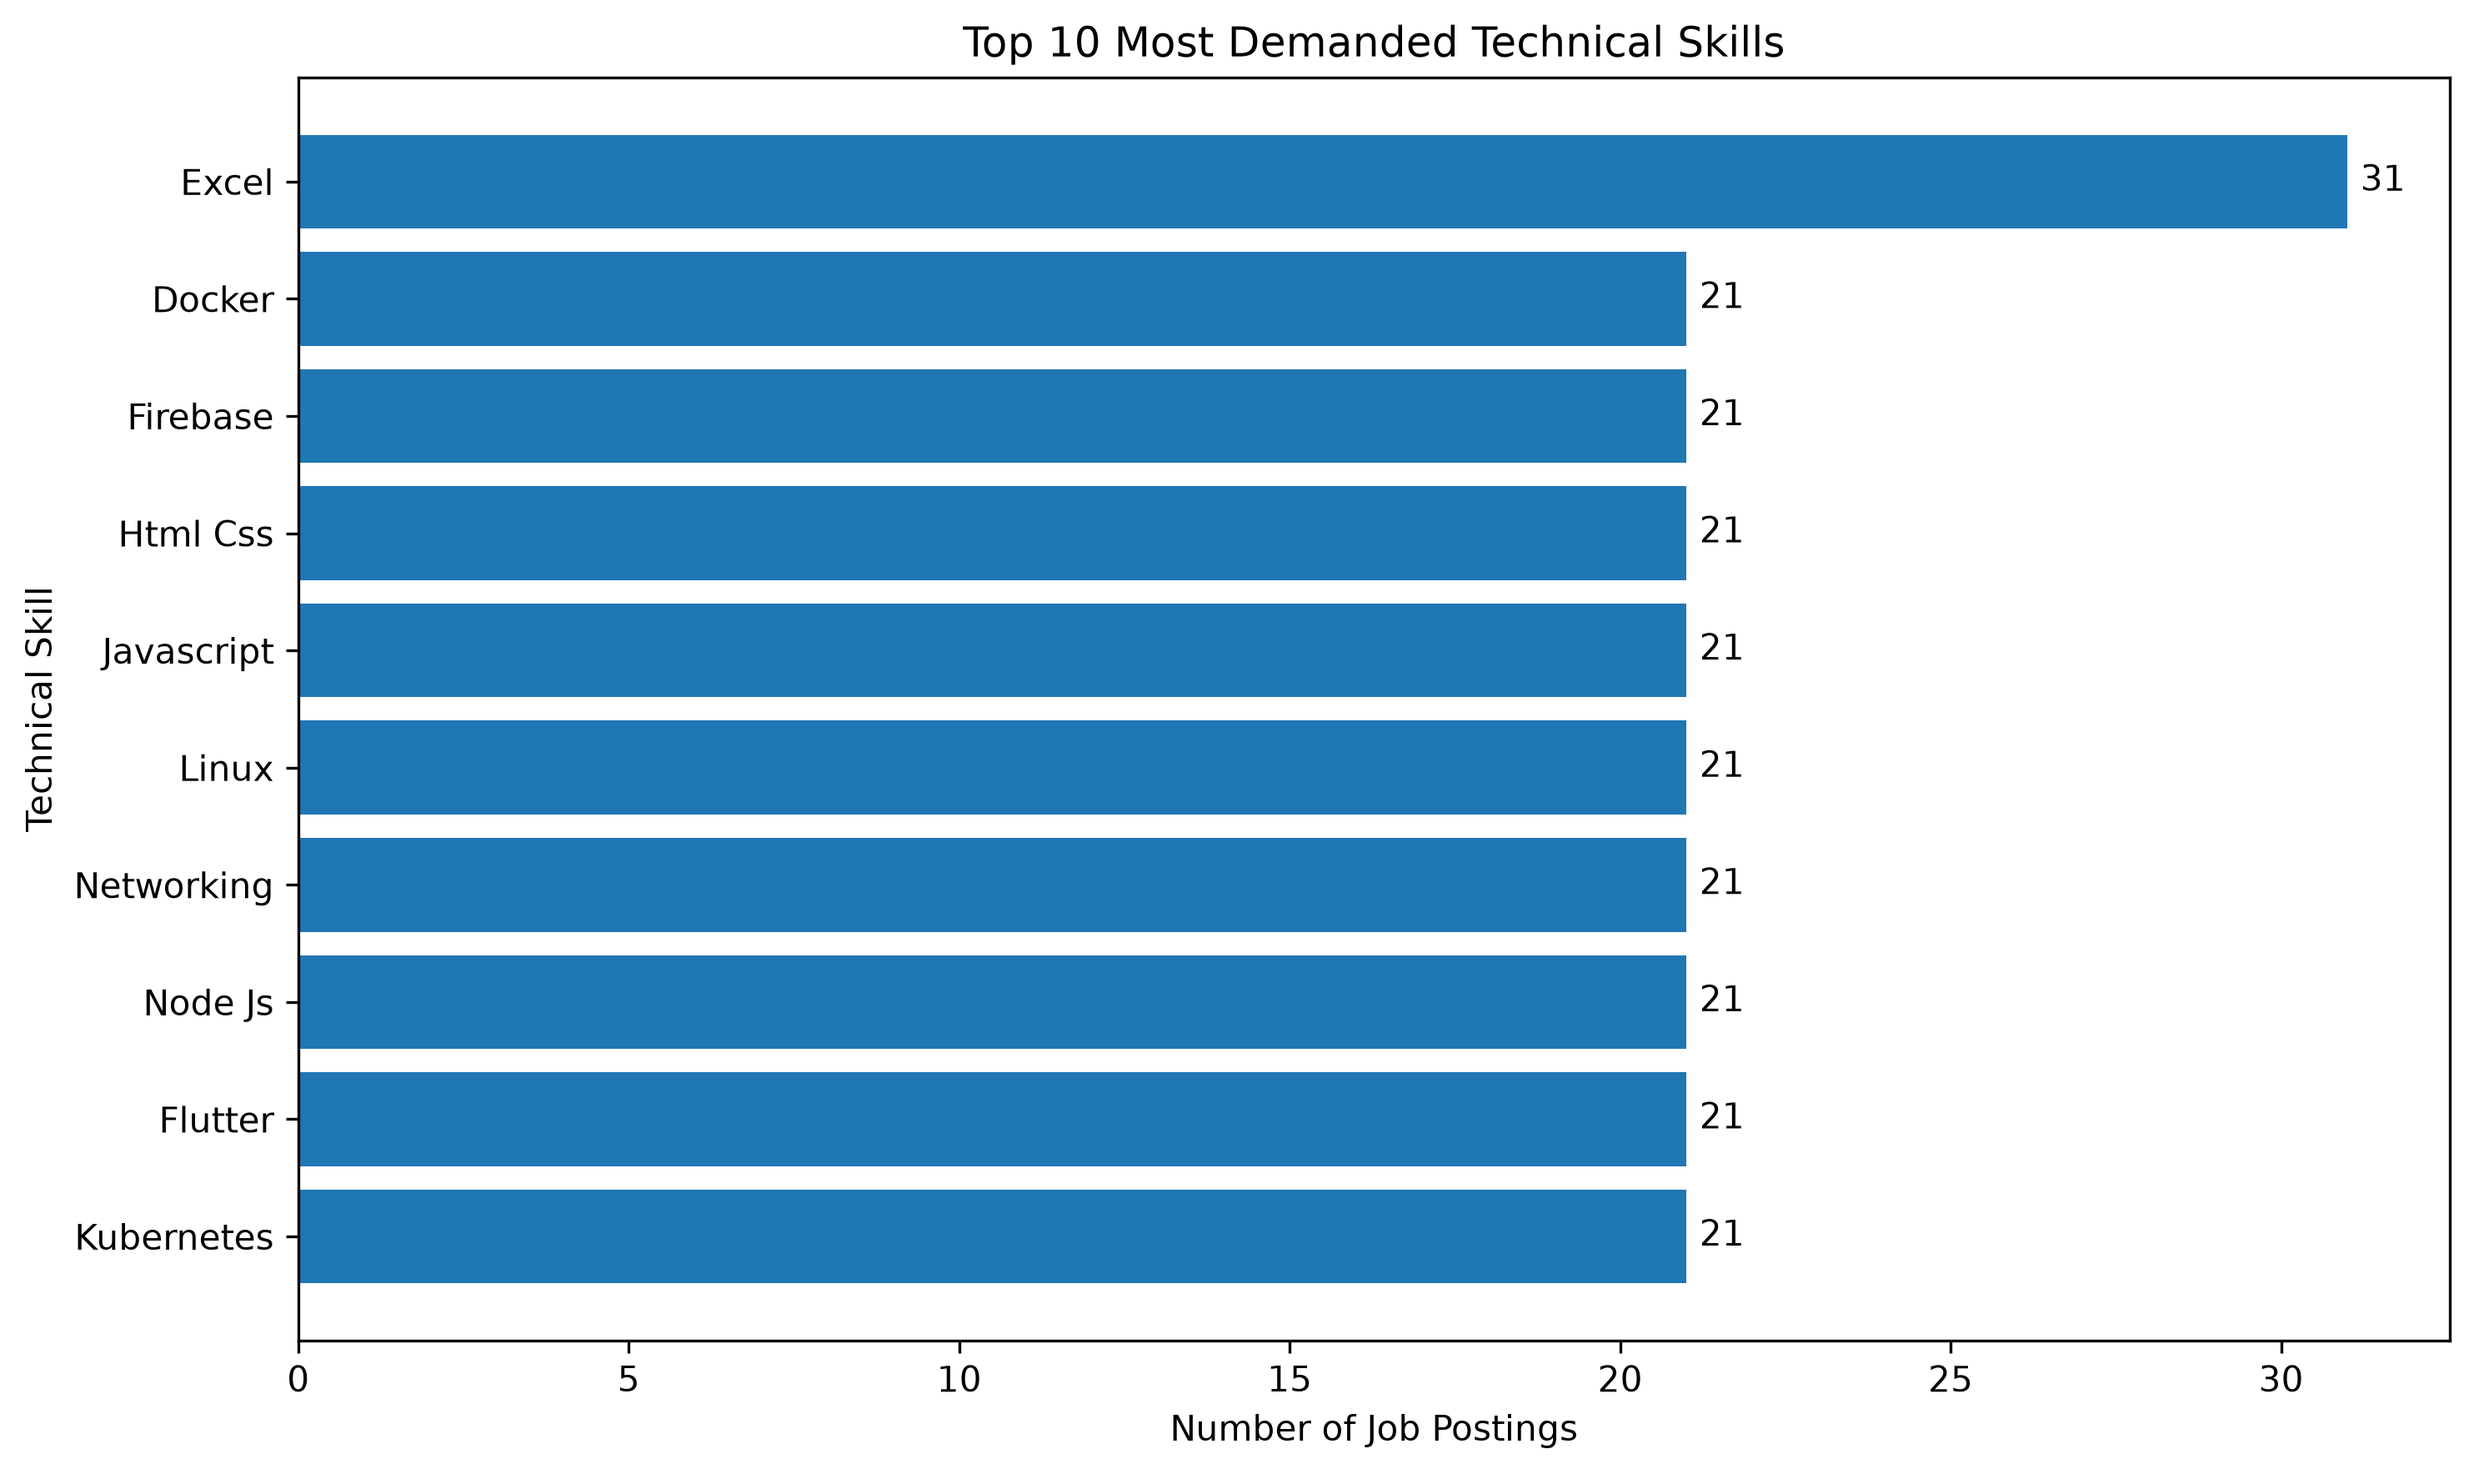
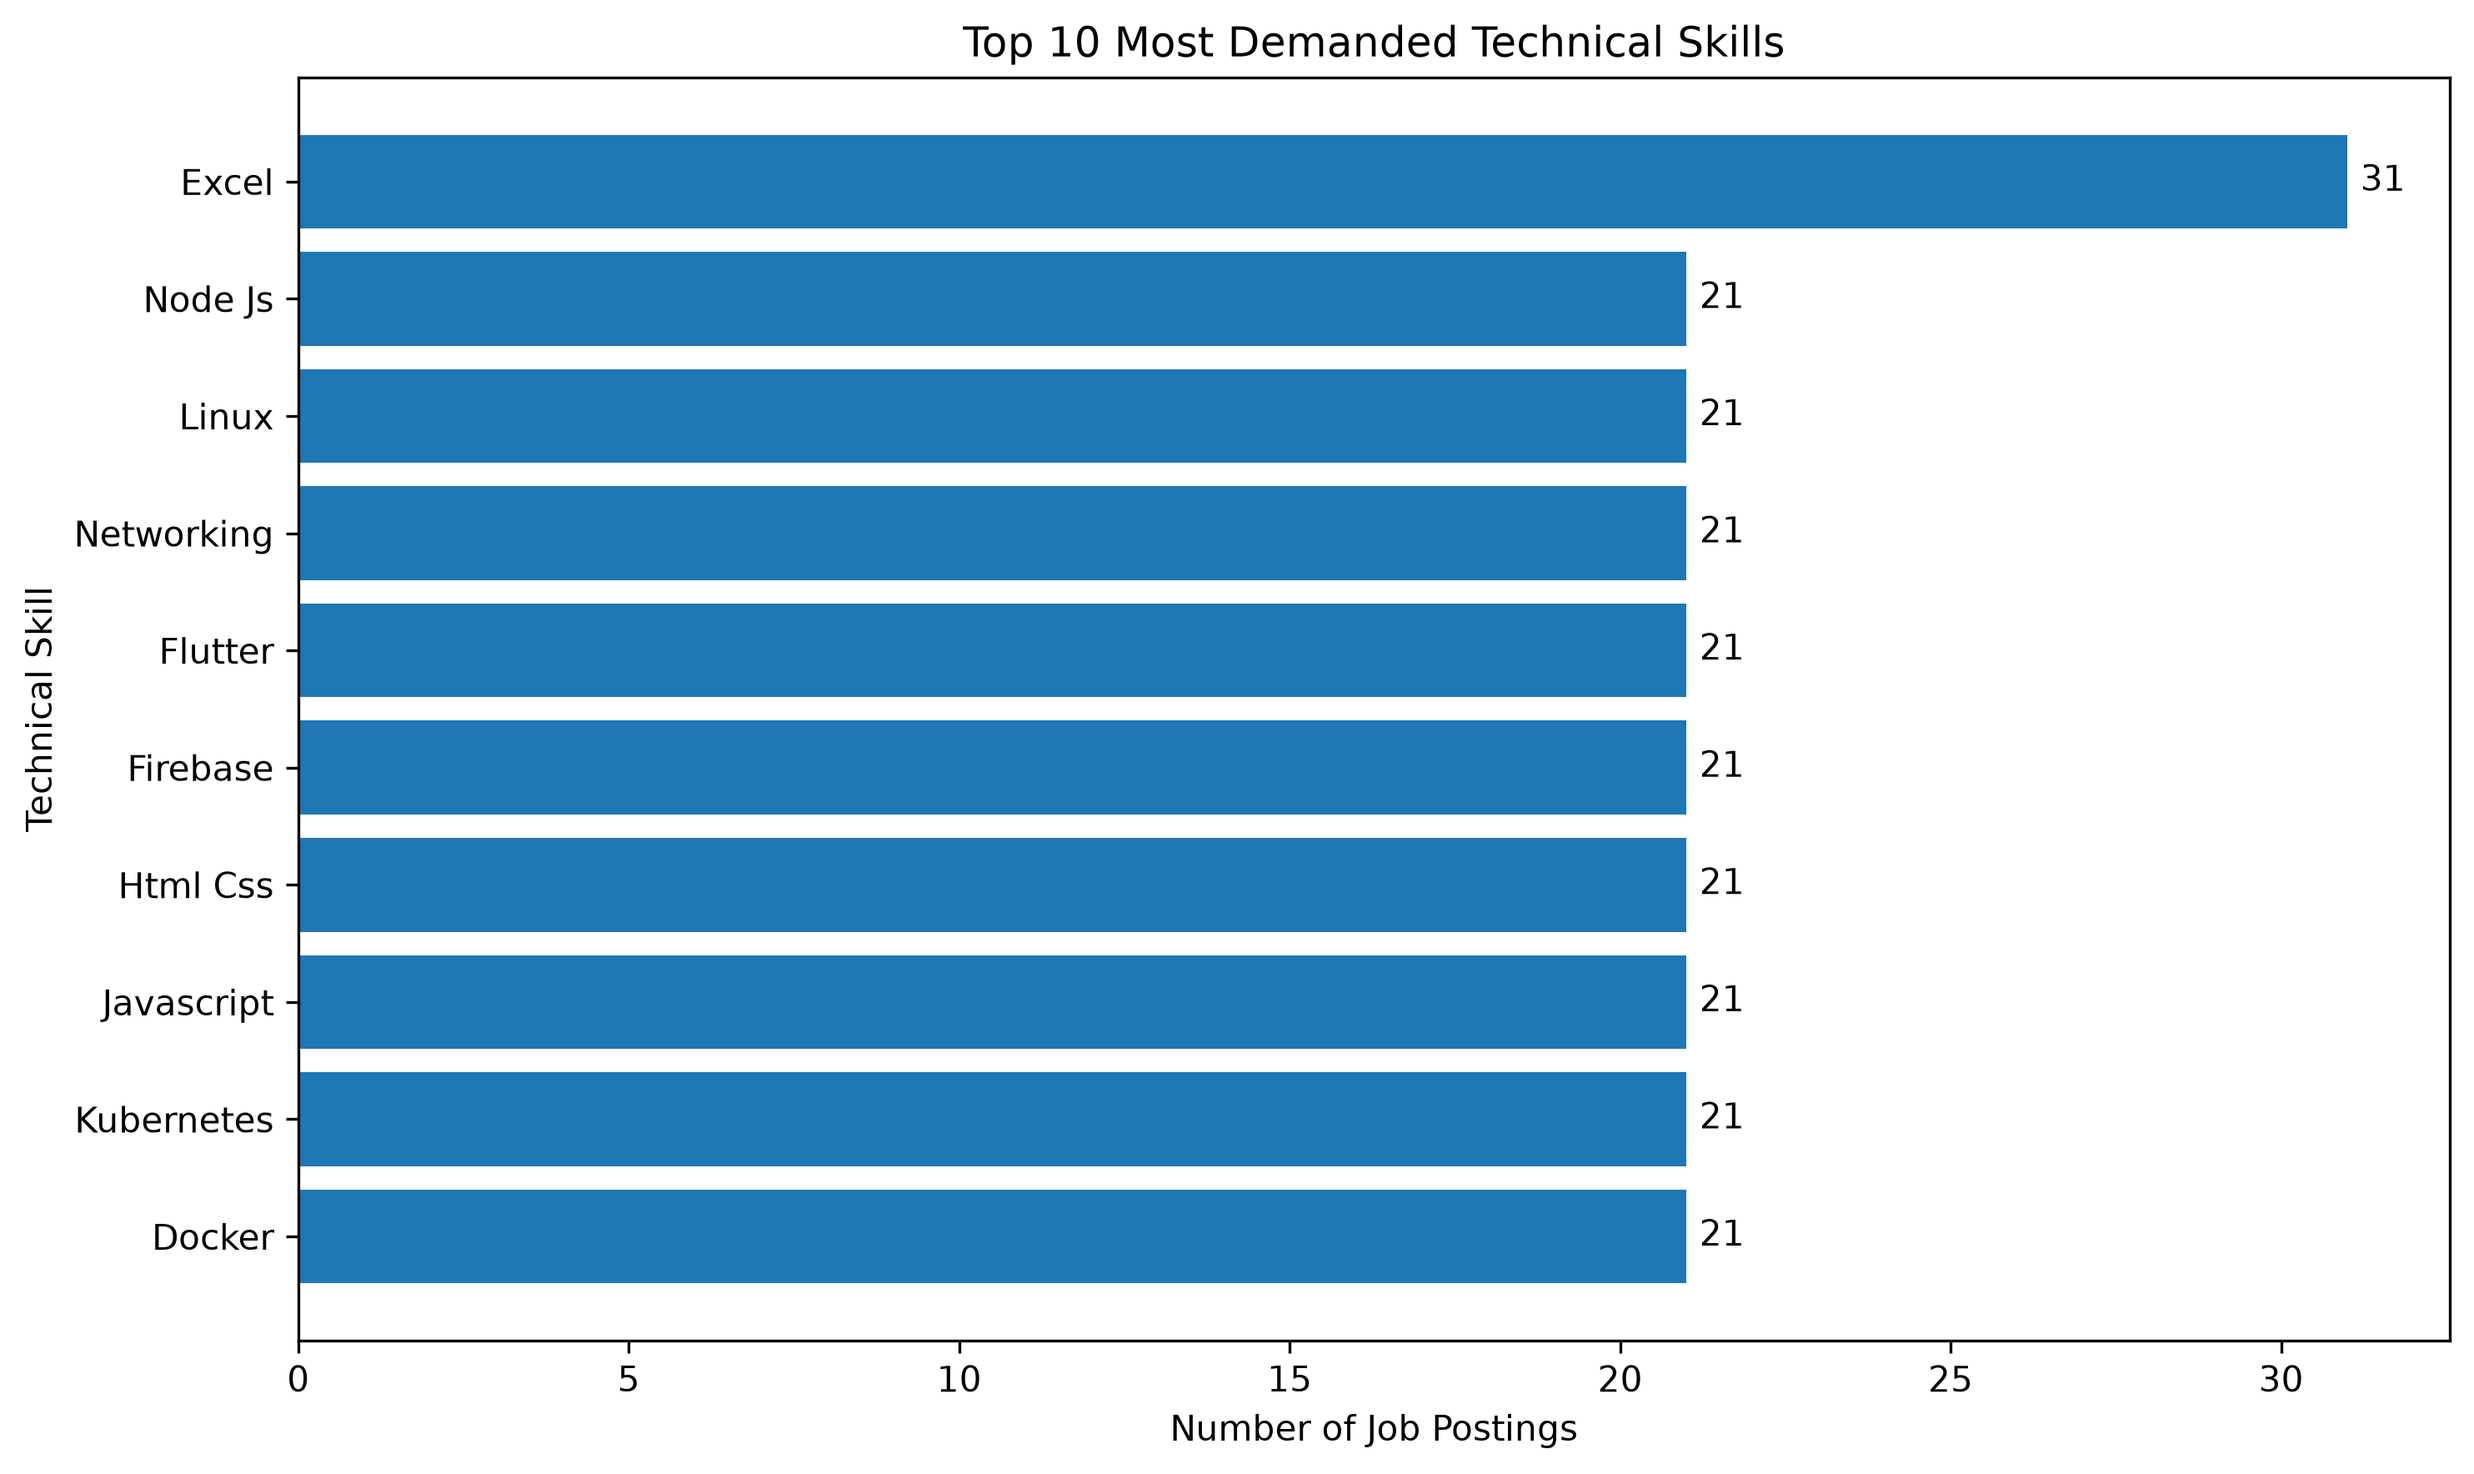
add

diff --git a/README.md b/README.md
@@ -305,19 +305,3 @@ The project can be improved in several ways in the future.
 * Add an interactive dashboard for exploring the dataset.
 * Automate the collection of new job postings from publicly available sources.
 * Add additional visualizations for salaries, locations, job families, and technical skills.
-
-
-
-# Conclusion
-
-This project demonstrates how Python can be used to transform raw job market data into useful information.
-
-The analysis answered two questions:
-
-1. **Which technical skills are most demanded in the job market?**
-   Excel was the most frequently represented technical skill, appearing in **31 of 32 job postings (96.9%)**.
-
-2. **What is the average salary for each job family?**
-   The dataset showed different average salaries across job families, with **Management having an average salary of $125,000.00** in the analyzed data.
-
-Through this project, I practiced important data analysis and software engineering skills including data loading, data cleaning, data conversion, filtering, aggregation, sorting, statistical analysis, and data visualization.
